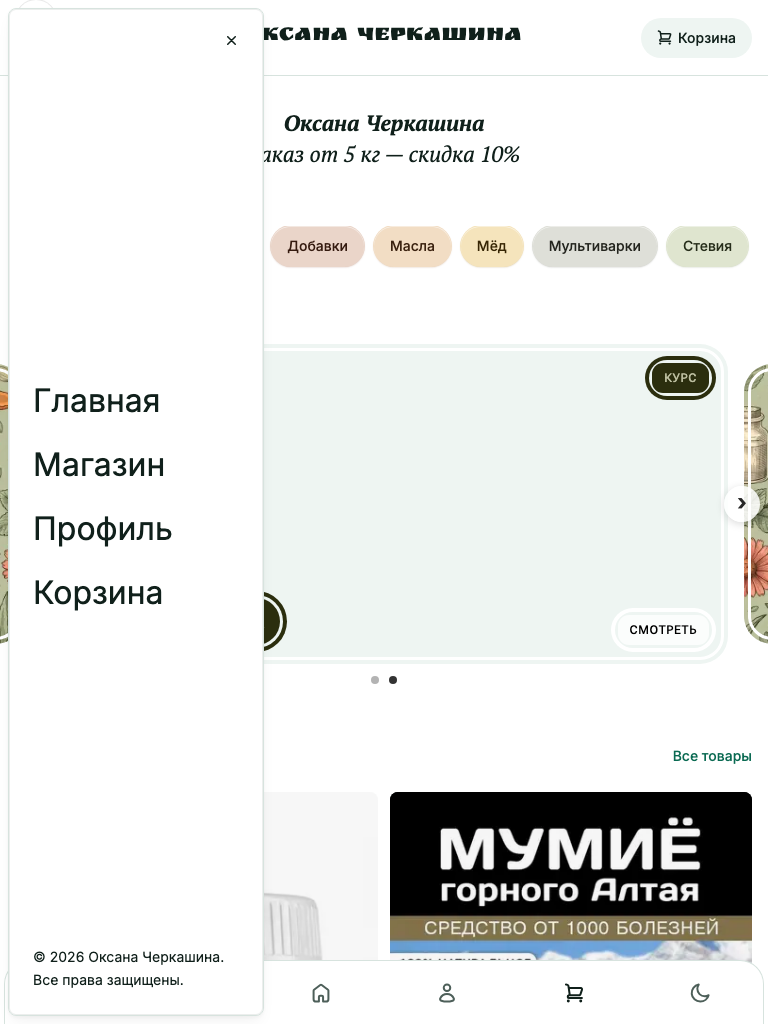
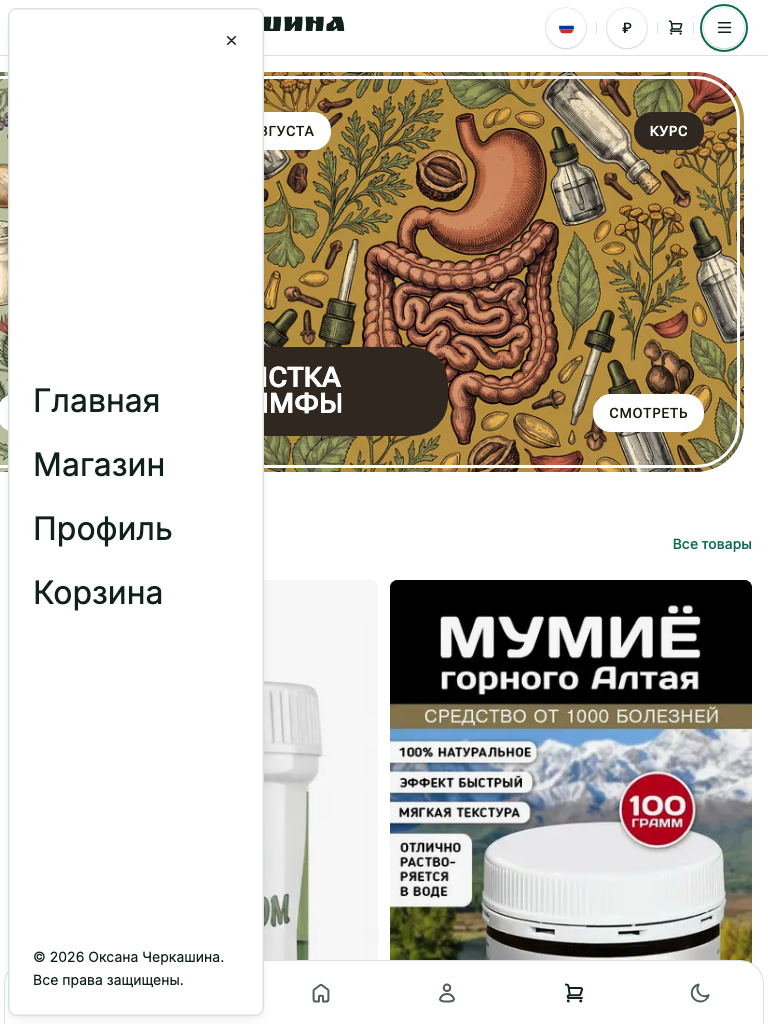
docs(evidence): storefront round-2 shots — header per device, slider 1/2/3+ and swiped, home, store (t-2026-09-24-n15)

diff --git a/apps/storefront/src/modules/home/variants/olavka-hero-slider.module.css b/apps/storefront/src/modules/home/variants/olavka-hero-slider.module.css
@@ -61,6 +61,13 @@
     flex-basis: calc((100% - 24px) / 2);
     max-width: none;
   }
+
+  /* `Items=2+` on desktop (239:17719): the current card centred (x 322 at 1216), the next
+     peeking right at 918 — the padding is what centres the first card at rest. */
+  .carousel {
+    padding-inline: calc(50% - 286px);
+    scroll-padding-inline: calc(50% - 286px);
+  }
 }
 
 .card {

diff --git a/apps/storefront/docs/evidence/t-2026-09-24-n15/report.md b/apps/storefront/docs/evidence/t-2026-09-24-n15/report.md
@@ -1,30 +1,34 @@
-# Evidence · t-2026-09-24-n15 · redesign-olavka: Header, Cover, Navigation, HeroSlider (rule 27f)
+# Evidence · t-2026-09-24-n15 · redesign-olavka round 2: header per device, banner slider (rule 27f)
 
 Shop «Оксана Черкашина» (tenant `cherkashino`), live render of the branch `redesign-olavka` on
-http://olavka-com.localhost:8233 (dev server, code commit 872f8ad2) against the stand backend :9121.
-Shots by Playwright/Chromium, three widths (1440, 768, 390), two themes (`light`, `dark` via the
-`upready-store.mode` localStorage axis the storefront's own toggle writes). Built after Ivan's Figma
-file `2zPDDEfMdYM1tbv5xKfnLX`, page «Main MVP», node 227:8180 «MainPage / initial» (1216 wide) and its
-master components 227:9557 «Header» (variant `initial`), 227:9296 «Cover», 227:9297 «Navigation»,
-227:9298 «HeroSliders». The file has NO mobile or tablet frame: 768 and 390 are an adaptation of the
-desktop node (burger + wordmark + cart in the bar, country/currency in the bottom-nav menu, the
-navigation row scrolls sideways, the banner is the viewport minus 80px).
+http://olavka-com.localhost:8233 (dev server) against the worker's own backend :9251 / database
+`upready_store_w15_n15` (a copy of the stand, marketplace secrets truncated). Shots by Playwright/Chromium,
+three widths (1440, 768, 390), two themes (`light`, `dark` via the `upready-store.mode` localStorage axis the
+storefront's own toggle writes). Built after Ivan's Figma file `2zPDDEfMdYM1tbv5xKfnLX`: MainPage set
+233:15256 (desktop 1216 / tablet 720 / mobile 360), Header set 227:9557 (`Scrolled=false` variants), HeroSliders
+set 238:17551 (`Device × Items × Swiped`). Breakpoints are the storefront's own: mobile below 640, tablet
+640–1023, desktop from 1024 (the file draws 360 / 720 / 1216).
+
+Home order on every width: Header → HeroSliders → «В магазине» (p4) → footer. Cover and Navigation are OFF
+(Ivan 2026-09-25); the components stay in the branch, their evidence groups are dropped.
 
 | Group | What it shows |
 |---|---|
-| `home/` | The whole home page `/ru`, full height: Header → Cover → Navigation → HeroSlider → the tenant's listing p4 → footer (the category-tiles block self-suppresses on this tenant: none of its categories has an image, the same as on `dev`; the composed hero k is skipped under the demo blocks, see `home/variants/index.ts`). |
-| `header/` | The h7 header element alone, Figma 227:9557 `initial`: burger disc · country pill («Россия») · currency pill («₽ RUB») — wordmark in Ruslan Display — account disc · «Корзина» pill · contact disc. 768/390: burger · wordmark · cart pill (icon only). The node's heart disc is not built (no wishlist in the storefront); the `scrolled` variant (24px wordmark in a pill) is not built — states come later from Ivan. |
-| `header-mobile-menu-open/` | The header's side menu opened from the burger; 768 and 390 only — at 1440 the burger opens the same menu, the state is the same. |
-| `cover/` | The Cover block, Figma 227:9296: PT Serif Italic 32px centred, line 1 bold = the shop's name, line 2 = the headline of the tenant's home document («Заказ от 5 кг — скидка 10%») standing in for the node's tagline until the panel has a `tagline` field. |
-| `navigation/` | The Navigation block, Figma 227:9297: the search pill (opens the search dialog), then one tinted pill per top-level category in alphabetical order, the node's own fill/ink pairs; scrolls sideways below 1024. The node's «Курсы» pill is absent: there is no courses listing route to point it at (open question). |
-| `hero-slider/` | The HeroSlider block, Figma 227:9298, on slide 1 of 2: the tenant's course products («Очищение печени» with its course cover, «Очищение почек» without an image), the active banner 800×320 with neighbours peeking, labels «Курс» / title / «Смотреть», arrows, dots. The node's date kicker («17 августа») has no data field yet and is not drawn. |
-| `hero-slider-slide-2/` | The same block after one «›» click: slide 2 of 2 («Очищение почек», no cover on the stand, so the banner is the theme's muted surface). |
-| `store/` | `/ru/store` viewport: the h7 header above the catalog page, proving the header is site-wide. |
+| `home/` | The whole home page `/ru` with the fixture's two banners (`o27-seed-home-banners`). |
+| `header/` | The h7 header element: desktop = burger disc · «Россия» pill · «₽ RUB» pill — wordmark — account disc · «Корзина» pill · contact disc; 768 and 390 = wordmark left, then flag disc · currency disc · cart · burger disc with 1×12 dividers (Figma 227:9557 `Device=tablet|mobile, Scrolled=false`). The `Scrolled=true` variants are not built (states later); the heart disc is not built (Ivan 3.1). |
+| `header-mobile-menu-open/` | The side menu opened from the burger of the compact header; 768 and 390 only. |
+| `hero-slider-1/` | The slider with ONE banner saved: one card the whole content width (1168 / 672 / 336 in the file). |
+| `hero-slider-2/` | TWO banners (the fixture): a pair 572×400 side by side at 1440 (no scrolling); one card with the next peeking at 768 and 390. |
+| `hero-slider-2-swiped/` | The same two banners at 768 and 390 after a swipe: the second card centred, the first peeking left (`Swiped=true`). |
+| `hero-slider-3plus/` | THREE banners (the third — «%» / «Коллекция» / «Товары от варикоза» / «Выбрать», the node's own picture 239:17763 — saved on the worker's database only, NOT in the fixture): a scroll-snap carousel on every width; at 1440 the first card is centred (x 322 as in the frame) with the next peeking right — the frame also shows a previous banner peeking left, i.e. an endless loop, which is not built (the one difference); at 768 and 390 the first card sits at the left padding with the next peeking (`Swiped=false`). |
+| `hero-slider-3plus-swiped/` | The three-banner carousel at 768 and 390 after a swipe: the second card centred, neighbours peeking on both sides. |
+| `store/` | `/ru/store` viewport: the header above the catalog page, proving it is site-wide. |
+
+Every banner card is ONE link (`<Link>` for a product or a site path, `<a target="_blank" rel="noopener
+noreferrer">` for an external URL) with the four chips as plain spans inside; the card's own focus ring is the
+keyboard focus. Pictures come through `srcset` cut by `scripts/media/make-image-variants.mjs`
+(`/static/home-banners/<slug>/<slug>-{480,768,1080,1440,1920}.webp`).
 
 Notes on the dev render: Next's dev overlay (`nextjs-portal`) is hidden in the shots. In `dark` the console
-carries one hydration warning on `<html data-mode>` (the pre-paint script switches the mode from
-localStorage before React hydrates; root layout on `dev`, not this branch) and next/image `qualities`
-deprecation warnings for every hero and product image (pre-existing on `dev`, the new blocks use the same
-`quality` values as the existing variants). Neither is touched here (lead: no self-initiated refactors).
-The navigation pills keep the node's light tints in `dark` too — every pill is a self-contained fill/ink
-pair the node proved readable, and the file has no dark variant.
+carries one hydration warning on `<html data-mode>` and next/image `qualities` deprecation warnings, both
+pre-existing on `dev` (not touched).

diff --git a/artifacts/docs/o-20260921-01/w15-redesign-header/README.md b/artifacts/docs/o-20260921-01/w15-redesign-header/README.md
@@ -12,6 +12,7 @@ URL: http://olavka-com.localhost:8233/ru (also /ru/store, /ru/account; 390 wide 
 |---|---|---|
 | Groundwork, no mockup yet | 7e2631b1 | h7 header + Cover / Navigation / HeroSlider wired and rendering with real tenant data; layout neutral, to be reshaped after the Figma node |
 | Demo clean-up after Ivan's first look | 589cda70 | The composed hero k no longer renders under the new blocks (Cover takes its place; tiles and listing stay); the slider is three category slides, the shop's promo is shown once, in the Cover. The header was visually = h2 at that point — no design was invented for it. |
+| Round 2 (Ivan's feedback 2026-09-25) | see git log: 9762d46e merge dev, 62100615 backend, b13a6d40 panel, storefront + evidence commits after | Cover and Navigation OFF on the home page; header per device (227:9557 `Scrolled=false`); slider after 238:17551 with layouts by banner count (1 / 2 / 3+); banners are tenant content: `content.banners` of the home document, panel editor «Баннеры на главной», fixture `o27-seed-home-banners` with the two mockup banners. Evidence: storefront `apps/storefront/docs/evidence/t-2026-09-24-n15/`, panel `apps/tenant-panel/docs/evidence/t-2026-09-24-n15/`. |
 | Figma pass | 872f8ad2 | All four components rebuilt after the node: h7 (227:9557 `initial`), Cover (227:9296), Navigation (227:9297), HeroSliders (227:9298); three typefaces of the node loaded through `next/font/google` (`lib/theme/olavka-fonts.ts`); slider = the tenant's course products. Evidence re-shot (`apps/storefront/docs/evidence/t-2026-09-24-n15/`). |
 
 Figma access arrived on 2026-09-25 (new token, read through the REST API; never printed or committed).
